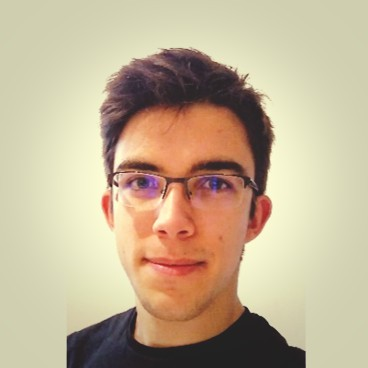
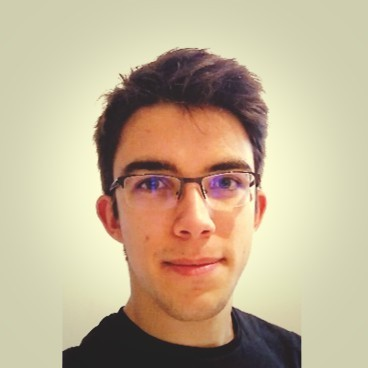
spelling mistakes + CV update + Photo flip

Changed region(s): [[0.1495, 0.1196, 0.837, 1.0], [0.4783, 0.2092, 0.5082, 0.2391]]

diff --git a/index.html b/index.html
@@ -369,7 +369,7 @@
 
             <li class="timeline-item">
 
-              <h4 class="h4 timeline-item-title">INSA Engeneering School, Toulouse, France</h4>
+              <h4 class="h4 timeline-item-title">INSA Engineering School, Toulouse, France</h4>
 
               <span>2018 — 2022</span>
 
@@ -389,7 +389,7 @@
               <span>2015 — 2018</span>
 
               <p class="timeline-text">
-                I was able to join a <strong>European program</strong> which allowed me to broaden my horizons. 
+                I was able to join an <strong>European program</strong> which allowed me to broaden my horizons. 
                 My high school years allowed me to improve my <strong>English</strong> and my <strong>German</strong>.
                 The engineering and science courses let me write my first pieces of code in <strong>C and Basic</strong>.
               </p>
@@ -414,13 +414,13 @@
 
             <li class="timeline-item">
 
-              <h4 class="h4 timeline-item-title">App developper</h4>
+              <h4 class="h4 timeline-item-title">App developer</h4>
 
               <span>Summer 2022</span>
 
               <p class="timeline-text">
                 I integrated the <strong>OwnTech</strong> team inside the LAAS-CNRS lab in Toulouse.
-                I developped an app for <strong>realtime data visualisation</strong>. I used electron framework, npm packages, and <strong>git</strong> for versionning.
+                I developed an app for <strong>realtime data visualisation</strong>. I used electron framework, npm packages, and <strong>git</strong> for versionning.
                 The app is plateform agnostic and works with any electronic devboard.
               </p>
 
